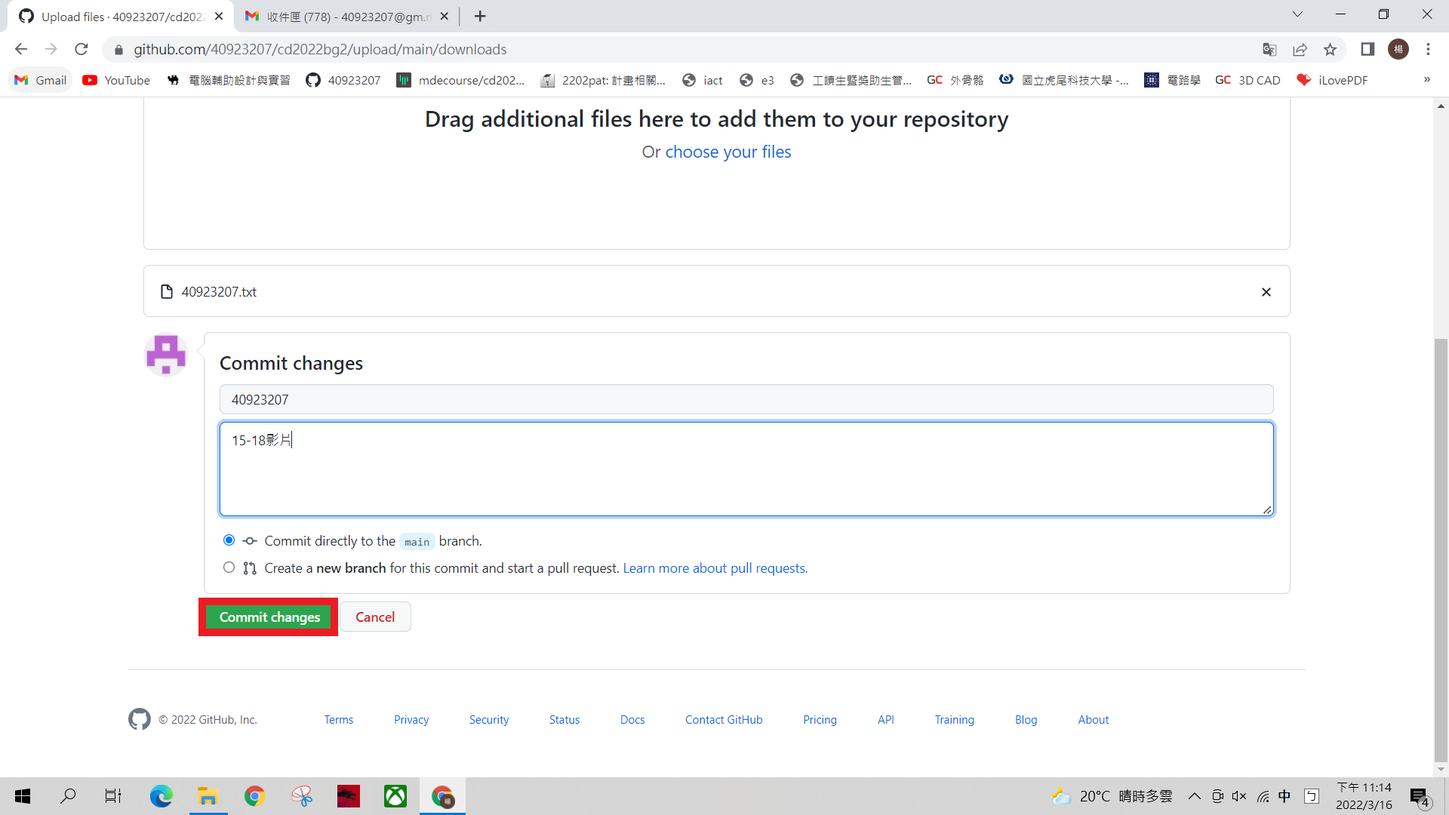
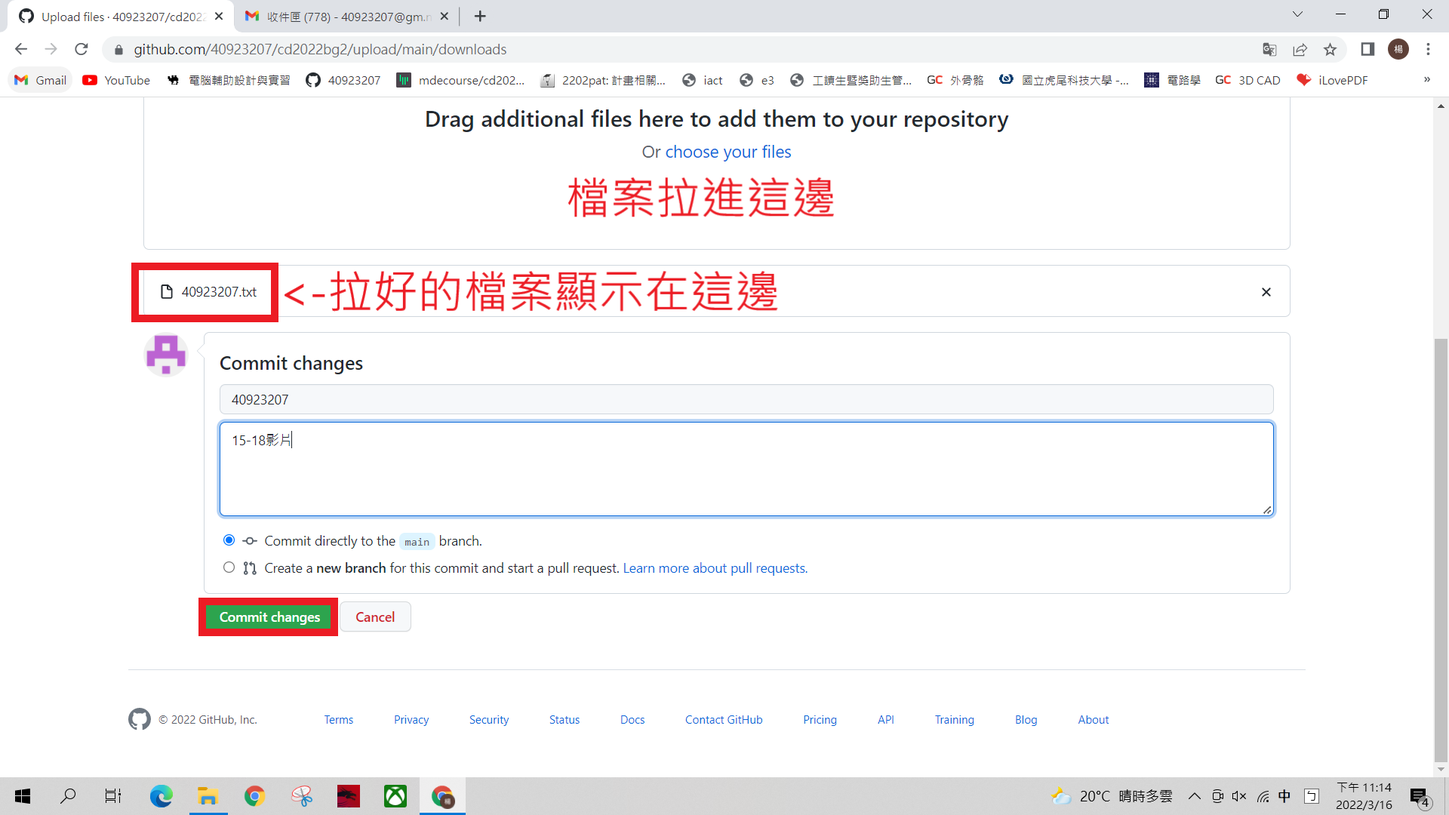
w4資料

Changed region(s): [[0.0938, 0.3361, 0.5312, 0.3972], [0.375, 0.2139, 0.5938, 0.275], [0.0938, 0.3056, 0.1875, 0.3361]]

diff --git a/content/tipuesearch_content.js b/content/tipuesearch_content.js
@@ -1,1 +1,1 @@
-var tipuesearch = {"pages": [{'title': 'About', 'text': '40923207 \n 網站倉儲: https://github.com/40923207/cd2022 \n 網站連結: https://40923207.github.io/cd2022/content/index.html \n', 'tags': '', 'url': 'About.html'}, {'title': 'hwpages', 'text': '\n \n \n cd2022_2b \n github account \n \n \n github pages \n github warehousing \n \n github warehousing \n \n \n bg1 \n \n \n \n \n \n \n \n \n \n \n \n \n \n \n 40923201 \n \n 40923201 \n \n \n \n 40923201 \n \n 40923201 \n \n \n 40923201 \n \n \n \n 40923205 \n \n 40923205 \n \n \n \n 40923205 \n \n 40923205 \n \n \n 40923205 \n \n \n \n 40923208 \n \n nfu40923208 \n \n \n 40923208 \n \n 40923208 \n \n \n 40923208 \n \n \n \n 40923210 \n \n 40923210 \n \n \n \n 40923210 \n \n 40923210 \n \n \n 40923210 \n \n \n \n 40923217 \n \n 40923217 \n \n \n \n 40923217 \n \n 40923217 \n \n \n 40923217 \n \n \n \n 40923230 \n \n 40923230 \n \n \n \n 40923230 \n \n 40923230 \n \n \n 40923230 \n \n \n \n 40923231 \n \n 40923231 \n \n \n \n 40923231 \n \n 40923231 \n \n \n 40923231 \n \n \n \n 40923235 \n \n 40923235 \n \n \n \n 40923235 \n \n 40923235 \n \n \n 40923235 \n \n \n \n \n \n \n \n \n \n \n \n \n \n \n \n \n \n \n bg2 \n \n \n \n \n \n \n \n \n \n \n \n \n \n \n 40823215 \n \n 40823215 \n \n \n \n 40823215 \n \n 40823215 \n \n \n 40823215 \n \n \n \n 40923203 \n \n youshin40923203 \n \n \n 40923203 \n \n 40923203 \n \n \n 40923203 \n \n \n \n 40923204 \n \n 40923204 \n \n \n \n 40923204 \n \n 40923204 \n \n \n 40923204 \n \n \n \n 40923207 \n \n 40923207 \n \n \n \n 40923207 \n \n 40923207 \n \n \n 40923207 \n \n \n \n 40923209 \n \n nfu40923209 \n \n \n 40923209 \n \n 40923209 \n \n \n 40923209 \n \n \n \n 40923213 \n \n 40923213 \n \n \n \n 40923213 \n \n 40923213 \n \n \n 40923213 \n \n \n \n 40923220 \n \n 40923220 \n \n \n \n 40923220 \n \n 40923220 \n \n \n 40923220 \n \n \n \n 40923240 \n \n 40923240 \n \n \n \n 40923240 \n \n 40923240 \n \n \n 40923240 \n \n \n \n \n \n \n \n \n \n \n \n \n \n \n \n \n \n \n bg3 \n \n \n \n \n \n \n \n \n \n \n \n \n \n \n 40923206 \n \n 40923206-1 \n \n \n 40923206 \n \n 40923206 \n \n \n 40923206 \n \n \n \n 40923224 \n \n s40923224 \n \n \n 40923224 \n \n 40923224 \n \n \n 40923224 \n \n \n \n 40923226 \n \n 40923226 \n \n \n \n 40923226 \n \n 40923226 \n \n \n 40923226 \n \n \n \n 40923242 \n \n 40923242 \n \n \n \n 40923242 \n \n 40923242 \n \n \n 40923242 \n \n \n \n 40923245 \n \n 40923245-1 \n \n \n 40923245 \n \n 40923245 \n \n \n 40923245 \n \n \n \n 40923247 \n \n 40923247 \n \n \n \n 40923247 \n \n 40923247 \n \n \n 40923247 \n \n \n \n 40923249 \n \n 40923249-1 \n \n \n 40923249 \n \n 40923249 \n \n \n 40923249 \n \n \n \n 40923252 \n \n 40923252 \n \n \n \n 40923252 \n \n 40923252 \n \n \n 40923252 \n \n \n \n \n \n \n \n \n \n \n \n \n \n \n \n \n \n \n bg4 \n \n \n \n \n \n \n \n \n \n \n \n \n \n \n 40923211 \n \n a40923211 \n \n \n 40923211 \n \n 40923211 \n \n \n 40923211 \n \n \n \n 40923218 \n \n 40923218 \n \n \n \n 40923218 \n \n 40923218 \n \n \n 40923218 \n \n \n \n 40923221 \n \n 40923221 \n \n \n \n 40923221 \n \n 40923221 \n \n \n 40923221 \n \n \n \n 40923223 \n \n 40923223 \n \n \n \n 40923223 \n \n 40923223 \n \n \n 40923223 \n \n \n \n 40923227 \n \n 40923227 \n \n \n \n 40923227 \n \n 40923227 \n \n \n 40923227 \n \n \n \n 40923243 \n \n 40923243 \n \n \n \n 40923243 \n \n 40923243 \n \n \n 40923243 \n \n \n \n \n \n \n \n \n \n \n \n \n \n \n \n \n \n \n bg5 \n \n \n \n \n \n \n \n \n \n \n \n \n \n \n 40923212 \n \n 40923212 \n \n \n \n 40923212 \n \n 40923212 \n \n \n 40923212 \n \n \n \n 40923229 \n \n 40923229 \n \n \n \n 40923229 \n \n 40923229 \n \n \n 40923229 \n \n \n \n 40923233 \n \n 40923233 \n \n \n \n 40923233 \n \n 40923233 \n \n \n 40923233 \n \n \n \n 40923234 \n \n 40923234 \n \n \n \n 40923234 \n \n 40923234 \n \n \n 40923234 \n \n \n \n 40923237 \n \n 40923237 \n \n \n \n 40923237 \n \n 40923237 \n \n \n 40923237 \n \n \n \n 40923251 \n \n 40923251 \n \n \n \n 40923251 \n \n 40923251 \n \n \n 40923251 \n \n \n \n 40923253 \n \n 40923253 \n \n \n \n 40923253 \n \n 40923253 \n \n \n 40923253 \n \n \n \n 40971220 \n \n 40971220 \n \n \n \n 40971220 \n \n 40971220 \n \n \n 40971220 \n \n \n \n \n \n \n \n \n \n \n \n \n \n \n \n \n \n \n bg6 \n \n \n \n \n \n \n \n \n \n \n \n \n \n \n 40723217 \n \n 40723217 \n \n \n \n 40723217 \n \n 40723217 \n \n \n 40723217 \n \n \n \n 40923219 \n \n nfu40923219 \n \n \n 40923219 \n \n 40923219 \n \n \n 40923219 \n \n \n \n 40923225 \n \n 40923225 \n \n \n \n 40923225 \n \n 40923225 \n \n \n 40923225 \n \n \n \n 40923232 \n \n 40923232 \n \n \n \n 40923232 \n \n 40923232 \n \n \n 40923232 \n \n \n \n 40923236 \n \n 40923236 \n \n \n \n 40923236 \n \n 40923236 \n \n \n 40923236 \n \n \n \n 40923241 \n \n 40923241 \n \n \n \n 40923241 \n \n 40923241 \n \n \n 40923241 \n \n \n \n 40923246 \n \n 40923246 \n \n \n \n 40923246 \n \n 40923246 \n \n \n 40923246 \n \n \n \n 40923250 \n \n 40923250 \n \n \n \n 40923250 \n \n 40923250 \n \n \n 40923250 \n \n \n \n \n \n \n \n \n \n \n \n \n \n \n \n \n \n \n bg7 \n \n \n \n \n \n \n \n \n \n \n \n \n \n \n 40723134 \n \n 40723134 \n \n \n \n 40723134 \n \n 40723134 \n \n \n 40723134 \n \n \n \n 40723136 \n \n s40723136 \n \n \n 40723136 \n \n 40723136 \n \n \n 40723136 \n \n \n \n 40732331 \n \n 40732331 \n \n \n \n 40732331 \n \n 40732331 \n \n \n 40732331 \n \n \n \n 40923214 \n \n 40923214 \n \n \n \n 40923214 \n \n 40923214 \n \n \n 40923214 \n \n \n \n 40923216 \n \n 40923216 \n \n \n \n 40923216 \n \n 40923216 \n \n \n 40923216 \n \n \n \n 40923228 \n \n 40923228 \n \n \n \n 40923228 \n \n 40923228 \n \n \n 40923228 \n \n \n \n 40923238 \n \n 40923238 \n \n \n \n 40923238 \n \n 40923238 \n \n \n 40923238 \n \n \n \n 40923248 \n \n 40923248 \n \n \n \n 40923248 \n \n 40923248 \n \n \n 40923248 \n \n \n \n \n \n', 'tags': '', 'url': 'hwpages.html'}, {'title': 'W3', 'text': '負責影片: \n 15. TECH 4472 HW09 NX Assemblies (Bottom-UP) \n 使用影片說明附上的零件進行組裝 \n youtube \n \n wink \n \n \n \n \n   \n \n \n \n \n \n \n \n \n 16. 4472 NX Subassemblies \n 使用影片說明附上的零件進行組裝 \n youtube \n \n wink \n \n \n \n \n   \n \n \n \n \n \n \n \n \n 17. 4472 HW10 NX Curves,Tubes,Wave Geometry Linker \n youtube \n \n wink \n \n \n \n \n   \n \n \n \n \n \n \n \n \n 18. 4472 HW11 NX Assemblies Top Down \n youtube \n \n wink \n \n \n \n \n   \n \n \n \n \n \n \n \n \n', 'tags': '', 'url': 'W3.html'}, {'title': '每週進度', 'text': '', 'tags': '', 'url': '每週進度.html'}, {'title': 'W1 0224', 'text': 'IPv 6設定(手動): \n 設定->網路和網際網路->Proxy-> \n \n 乙太網路 ->變更介面卡選項->又鍵點選"乙太網路"->內容->取消勾選網際通訊協定第四版(TCP/IPv4) \n \n', 'tags': '', 'url': 'W1 0224.html'}, {'title': 'W2 0303', 'text': '', 'tags': '', 'url': 'W2 0303.html'}, {'title': '建立倉儲', 'text': '\n 1 先到老師網頁的cmstemplate可攜系統下載 portablekmol_base.7z 、  Python395.7z 、 portablegit_2.31.1.7z 後解壓縮，將解壓縮好的 Python395.7z、portablegit_2.31.1.7z放入portablekmol_base.7z解 壓縮好的data資料夾裡面 \n 2 先登入Github到老師網頁的About點選 網址 進入後按Use this template，在Repository name輸入自己需要的倉儲名稱後按Create repository from template \n \n 3 進自己的倉儲後，按上方的Settings->Pages->None改main->Save->生 成網頁網址 \n 4 開下載好的ipv6，將 ipv4拉進白窗，將 Python38都改成 Python395、 portablegit 改成 portablegit2.31.1，最下面將改成這樣 \n \n 5 開小黑窗\xa0 \n \xa0 cd tmp\xa0 git version=>出現git version2.31.2...\xa0 \n \xa0 dir(看檔案表)\xa0 \n \xa0 git clone --recurse-submodules https://...新建的倉儲網址.git， 跑完之後會發現data->tmp->多 了倉儲名稱的資料夾 \n 6 小黑窗輸稱\xa0 \n \xa0 cd 倉儲名稱\xa0 \n \xa0 pip install pyopenssl\xa0 \n \xa0 cms=>複製網址進入編輯的地方，預設登入密碼為“admin\xa0” \n 7 回到倉儲(Github)右上角下拉式選單按 Settings->Developer settings->Personal access tokens->Generate new token-> Note輸入 認得出來的名字-> Expiration可以選No expiration(無期限)->rope一 定要勾-> Generate token->出現一大串英文是新建的token要先複製另 外存好 \n 8 Data->tmp->倉儲名稱->(檢視->選項->顯示隱藏的檔案).git->confit拉 進白窗->［remote］下面的url=https://github.com...在//和 github 中間貼上剛剛複製的token和@ \n \n 9 tmp->cd2022 ->.git-> confit檔案拉進白窗加入\xa0 \n \xa0 name=帳號(github帳號)\xa0 \n \xa0 email=當初登入的信箱 \n', 'tags': '', 'url': '建立倉儲.html'}, {'title': '分組連結製作', 'text': '先將老師 統計好的GitHub帳號 整理至excel，再使用hyperlink函數快速完成全班的GitHub pages和GitHub warehousing然後完成網站 \n 操作步驟： \n 1.先在要產生網址的地方輸入函數=HYPERLINK("https://"&B2&".github.io/cd2022/content/index.html") \n 2.其中& B 2&是指那個位置要輸入 B 2那格的內容，且 B 2前後要加“&” \n 3.輸入完“https://"&B2&".github.io/cd2022/content/index.html”後，如果想讓顯 示的網址名稱不是整段網址，可在最後面/和”中間打上 ,想要的名稱 （可輸入表格位置表示以那個位置名稱顯示出超連結） \n 4.再將有進行函式的格子向下拉皆套入公式 \n \n 5.再將excel內容依組別整理後複製貼上網頁 \n', 'tags': '', 'url': '分組連結製作.html'}, {'title': 'W3 0310', 'text': '利用NX1980繪製38個比較接近NX1980版本功能的教學影片( 連結 )，每一學員分配5個影片，並在w3標題頁面中， 根據影片中的教學內容，以Wink影片互相對照的方式採NX1980執行操作進行整理，完成後將所負責的Wink教學影片嵌入個人與大分組的w3標題頁面中 \n \n', 'tags': '', 'url': 'W3 0310.html'}, {'title': 'wink', 'text': 'wink加入網頁步驟: \n 先到 老師的網站 複製原始碼 \n \n \n 複製第143-164行 \n 複製到Source code並更改以下內容: \n <script>// <![CDATA[ var winkVideoData = {  dataVersion: 1,  frameRate: 20,  buttonFrameLength: 10,  buttonFrameOffset: 5,  frameStops: {  }, }; // ]]></script> </code></pre> <div class="winkVideoContainerClass"><video width="1920" height="1080" class="winkVideoClass" data-dirname="./../cmsimde/static" data-varname="winkVideoData"> <source src="./../downloads/ test .mp4" type="video/mp4" /></video> <div class="winkVideoOverlayClass"></div> <div class="winkVideoControlBarClass"><button class="winkVideoControlBarPlayButtonClass"></button> <button class="winkVideoControlBarPauseButtonClass"></button> <div class="winkVideoControlBarProgressLeftClass"></div> <div class="winkVideoControlBarProgressEmptyMiddleClass"></div> <div class="winkVideoControlBarProgressRightClass"></div> <div class="winkVideoControlBarProgressFilledMiddleClass"></div> <div class="winkVideoControlBarProgressThumbClass"></div> </div> <div class="winkVideoPlayOverlayClass"></div> </div> \n 1.刪除「 ./../cmsimde 」 \n \xa0 ex: dirname="/static" \n 2.改成自己wink影片的尺寸「 height="712" width="1138" 」 \n \xa0 ex: height="800" width="1200" \n 3.改成自己影片的路徑及名稱「 wink/meArm_robot_wink 」 \n \xa0 ex: <source src="./../downloads/ test .mp4" \xa0 \n \n 改好後會像圖片這樣，紅色框的內容可避免wink影片重疊，分別加在wink影片原始碼前後 \n \n  Brython 程式執行的結果, 都以 brython_div 作為切入位置  \n \n \n \n  導入 gearUtils-0.9.js Cango 齒輪繪圖程式庫  \n \n \n \n \n \n \n', 'tags': '', 'url': 'wink.html'}, {'title': 'W4 0317', 'text': '', 'tags': '', 'url': 'W4 0317.html'}, {'title': 'NX1980網路授權更改', 'text': '原先的設定 \n \n 可用分號隔開即可不用在切換網路時更改程式碼 \n \n IPV4 \n set SPLM_LICENSE_SERVER=28000@140.130.17.37 \n 近端主機授權 \n set SPLM_LICENSE_SERVER=28000@［2001:288:6004:17::37］ \n IPV6 \n set SPLM_LICENSE_SERVER=28000@192.168.56.3', 'tags': '', 'url': 'NX1980網路授權更改.html'}, {'title': 'fork', 'text': '在大組倉儲按fork即可 \n', 'tags': '', 'url': 'fork.html'}, {'title': '創建downloads', 'text': '1.在大組倉儲按Create new file \n \n 2.輸入名稱 \n \n 3. 按Pripose new file \n \n 4.按Creat pull request \n \n 5.按Create pull request \n', 'tags': '', 'url': '創建downloads.html'}, {'title': '上傳txt檔', 'text': '\n', 'tags': '', 'url': '上傳txt檔.html'}, {'title': 'W5 0324', 'text': '\n', 'tags': '', 'url': 'W5 0324.html'}, {'title': 'W6 0331', 'text': '\n', 'tags': '', 'url': 'W6 0331.html'}, {'title': 'W7 0407', 'text': '\xa0 \n', 'tags': '', 'url': 'W7 0407.html'}, {'title': 'W8 0414', 'text': '\n', 'tags': '', 'url': 'W8 0414.html'}, {'title': 'W9 0421', 'text': '\n', 'tags': '', 'url': 'W9 0421.html'}, {'title': 'W10 0428', 'text': '\n', 'tags': '', 'url': 'W10 0428.html'}, {'title': 'W11 0505', 'text': '\n', 'tags': '', 'url': 'W11 0505.html'}, {'title': 'W12 0512', 'text': '\n', 'tags': '', 'url': 'W12 0512.html'}, {'title': 'W13 0519', 'text': '\n', 'tags': '', 'url': 'W13 0519.html'}, {'title': 'W14 0526', 'text': '\n', 'tags': '', 'url': 'W14 0526.html'}, {'title': 'W15 0602', 'text': '\n', 'tags': '', 'url': 'W15 0602.html'}, {'title': 'W16 0609', 'text': '\n', 'tags': '', 'url': 'W16 0609.html'}, {'title': 'W17 0616', 'text': '\n', 'tags': '', 'url': 'W17 0616.html'}, {'title': 'W18 0623', 'text': '', 'tags': '', 'url': 'W18 0623.html'}]};
+var tipuesearch = {"pages": [{'title': 'About', 'text': '40923207 \n 網站倉儲: https://github.com/40923207/cd2022 \n 網站連結: https://40923207.github.io/cd2022/content/index.html \n', 'tags': '', 'url': 'About.html'}, {'title': 'hwpages', 'text': '\n \n \n cd2022_2b \n github account \n \n \n github pages \n github warehousing \n \n github warehousing \n \n \n bg1 \n \n \n \n \n \n \n \n \n \n \n \n \n \n \n 40923201 \n \n 40923201 \n \n \n \n 40923201 \n \n 40923201 \n \n \n 40923201 \n \n \n \n 40923205 \n \n 40923205 \n \n \n \n 40923205 \n \n 40923205 \n \n \n 40923205 \n \n \n \n 40923208 \n \n nfu40923208 \n \n \n 40923208 \n \n 40923208 \n \n \n 40923208 \n \n \n \n 40923210 \n \n 40923210 \n \n \n \n 40923210 \n \n 40923210 \n \n \n 40923210 \n \n \n \n 40923217 \n \n 40923217 \n \n \n \n 40923217 \n \n 40923217 \n \n \n 40923217 \n \n \n \n 40923230 \n \n 40923230 \n \n \n \n 40923230 \n \n 40923230 \n \n \n 40923230 \n \n \n \n 40923231 \n \n 40923231 \n \n \n \n 40923231 \n \n 40923231 \n \n \n 40923231 \n \n \n \n 40923235 \n \n 40923235 \n \n \n \n 40923235 \n \n 40923235 \n \n \n 40923235 \n \n \n \n \n \n \n \n \n \n \n \n \n \n \n \n \n \n \n bg2 \n \n \n \n \n \n \n \n \n \n \n \n \n \n \n 40823215 \n \n 40823215 \n \n \n \n 40823215 \n \n 40823215 \n \n \n 40823215 \n \n \n \n 40923203 \n \n youshin40923203 \n \n \n 40923203 \n \n 40923203 \n \n \n 40923203 \n \n \n \n 40923204 \n \n 40923204 \n \n \n \n 40923204 \n \n 40923204 \n \n \n 40923204 \n \n \n \n 40923207 \n \n 40923207 \n \n \n \n 40923207 \n \n 40923207 \n \n \n 40923207 \n \n \n \n 40923209 \n \n nfu40923209 \n \n \n 40923209 \n \n 40923209 \n \n \n 40923209 \n \n \n \n 40923213 \n \n 40923213 \n \n \n \n 40923213 \n \n 40923213 \n \n \n 40923213 \n \n \n \n 40923220 \n \n 40923220 \n \n \n \n 40923220 \n \n 40923220 \n \n \n 40923220 \n \n \n \n 40923240 \n \n 40923240 \n \n \n \n 40923240 \n \n 40923240 \n \n \n 40923240 \n \n \n \n \n \n \n \n \n \n \n \n \n \n \n \n \n \n \n bg3 \n \n \n \n \n \n \n \n \n \n \n \n \n \n \n 40923206 \n \n 40923206-1 \n \n \n 40923206 \n \n 40923206 \n \n \n 40923206 \n \n \n \n 40923224 \n \n s40923224 \n \n \n 40923224 \n \n 40923224 \n \n \n 40923224 \n \n \n \n 40923226 \n \n 40923226 \n \n \n \n 40923226 \n \n 40923226 \n \n \n 40923226 \n \n \n \n 40923242 \n \n 40923242 \n \n \n \n 40923242 \n \n 40923242 \n \n \n 40923242 \n \n \n \n 40923245 \n \n 40923245-1 \n \n \n 40923245 \n \n 40923245 \n \n \n 40923245 \n \n \n \n 40923247 \n \n 40923247 \n \n \n \n 40923247 \n \n 40923247 \n \n \n 40923247 \n \n \n \n 40923249 \n \n 40923249-1 \n \n \n 40923249 \n \n 40923249 \n \n \n 40923249 \n \n \n \n 40923252 \n \n 40923252 \n \n \n \n 40923252 \n \n 40923252 \n \n \n 40923252 \n \n \n \n \n \n \n \n \n \n \n \n \n \n \n \n \n \n \n bg4 \n \n \n \n \n \n \n \n \n \n \n \n \n \n \n 40923211 \n \n a40923211 \n \n \n 40923211 \n \n 40923211 \n \n \n 40923211 \n \n \n \n 40923218 \n \n 40923218 \n \n \n \n 40923218 \n \n 40923218 \n \n \n 40923218 \n \n \n \n 40923221 \n \n 40923221 \n \n \n \n 40923221 \n \n 40923221 \n \n \n 40923221 \n \n \n \n 40923223 \n \n 40923223 \n \n \n \n 40923223 \n \n 40923223 \n \n \n 40923223 \n \n \n \n 40923227 \n \n 40923227 \n \n \n \n 40923227 \n \n 40923227 \n \n \n 40923227 \n \n \n \n 40923243 \n \n 40923243 \n \n \n \n 40923243 \n \n 40923243 \n \n \n 40923243 \n \n \n \n \n \n \n \n \n \n \n \n \n \n \n \n \n \n \n bg5 \n \n \n \n \n \n \n \n \n \n \n \n \n \n \n 40923212 \n \n 40923212 \n \n \n \n 40923212 \n \n 40923212 \n \n \n 40923212 \n \n \n \n 40923229 \n \n 40923229 \n \n \n \n 40923229 \n \n 40923229 \n \n \n 40923229 \n \n \n \n 40923233 \n \n 40923233 \n \n \n \n 40923233 \n \n 40923233 \n \n \n 40923233 \n \n \n \n 40923234 \n \n 40923234 \n \n \n \n 40923234 \n \n 40923234 \n \n \n 40923234 \n \n \n \n 40923237 \n \n 40923237 \n \n \n \n 40923237 \n \n 40923237 \n \n \n 40923237 \n \n \n \n 40923251 \n \n 40923251 \n \n \n \n 40923251 \n \n 40923251 \n \n \n 40923251 \n \n \n \n 40923253 \n \n 40923253 \n \n \n \n 40923253 \n \n 40923253 \n \n \n 40923253 \n \n \n \n 40971220 \n \n 40971220 \n \n \n \n 40971220 \n \n 40971220 \n \n \n 40971220 \n \n \n \n \n \n \n \n \n \n \n \n \n \n \n \n \n \n \n bg6 \n \n \n \n \n \n \n \n \n \n \n \n \n \n \n 40723217 \n \n 40723217 \n \n \n \n 40723217 \n \n 40723217 \n \n \n 40723217 \n \n \n \n 40923219 \n \n nfu40923219 \n \n \n 40923219 \n \n 40923219 \n \n \n 40923219 \n \n \n \n 40923225 \n \n 40923225 \n \n \n \n 40923225 \n \n 40923225 \n \n \n 40923225 \n \n \n \n 40923232 \n \n 40923232 \n \n \n \n 40923232 \n \n 40923232 \n \n \n 40923232 \n \n \n \n 40923236 \n \n 40923236 \n \n \n \n 40923236 \n \n 40923236 \n \n \n 40923236 \n \n \n \n 40923241 \n \n 40923241 \n \n \n \n 40923241 \n \n 40923241 \n \n \n 40923241 \n \n \n \n 40923246 \n \n 40923246 \n \n \n \n 40923246 \n \n 40923246 \n \n \n 40923246 \n \n \n \n 40923250 \n \n 40923250 \n \n \n \n 40923250 \n \n 40923250 \n \n \n 40923250 \n \n \n \n \n \n \n \n \n \n \n \n \n \n \n \n \n \n \n bg7 \n \n \n \n \n \n \n \n \n \n \n \n \n \n \n 40723134 \n \n 40723134 \n \n \n \n 40723134 \n \n 40723134 \n \n \n 40723134 \n \n \n \n 40723136 \n \n s40723136 \n \n \n 40723136 \n \n 40723136 \n \n \n 40723136 \n \n \n \n 40732331 \n \n 40732331 \n \n \n \n 40732331 \n \n 40732331 \n \n \n 40732331 \n \n \n \n 40923214 \n \n 40923214 \n \n \n \n 40923214 \n \n 40923214 \n \n \n 40923214 \n \n \n \n 40923216 \n \n 40923216 \n \n \n \n 40923216 \n \n 40923216 \n \n \n 40923216 \n \n \n \n 40923228 \n \n 40923228 \n \n \n \n 40923228 \n \n 40923228 \n \n \n 40923228 \n \n \n \n 40923238 \n \n 40923238 \n \n \n \n 40923238 \n \n 40923238 \n \n \n 40923238 \n \n \n \n 40923248 \n \n 40923248 \n \n \n \n 40923248 \n \n 40923248 \n \n \n 40923248 \n \n \n \n \n \n', 'tags': '', 'url': 'hwpages.html'}, {'title': 'W3', 'text': '負責影片: \n 15. TECH 4472 HW09 NX Assemblies (Bottom-UP) \n 使用影片說明附上的零件進行組裝 \n youtube \n \n wink \n \n \n \n \n   \n \n \n \n \n \n \n \n \n 16. 4472 NX Subassemblies \n 使用影片說明附上的零件進行組裝 \n youtube \n \n wink \n \n \n \n \n   \n \n \n \n \n \n \n \n \n 17. 4472 HW10 NX Curves,Tubes,Wave Geometry Linker \n youtube \n \n wink \n \n \n \n \n   \n \n \n \n \n \n \n \n \n 18. 4472 HW11 NX Assemblies Top Down \n youtube \n \n wink \n \n \n \n \n   \n \n \n \n \n \n \n \n \n', 'tags': '', 'url': 'W3.html'}, {'title': '每週進度', 'text': '', 'tags': '', 'url': '每週進度.html'}, {'title': 'W1 0224', 'text': 'IPv 6設定(手動): \n 設定->網路和網際網路->Proxy-> \n \n 乙太網路 ->變更介面卡選項->又鍵點選"乙太網路"->內容->取消勾選網際通訊協定第四版(TCP/IPv4) \n \n', 'tags': '', 'url': 'W1 0224.html'}, {'title': 'W2 0303', 'text': '', 'tags': '', 'url': 'W2 0303.html'}, {'title': '建立倉儲', 'text': '\n 1 先到老師網頁的cmstemplate可攜系統下載 portablekmol_base.7z 、  Python395.7z 、 portablegit_2.31.1.7z 後解壓縮，將解壓縮好的 Python395.7z、portablegit_2.31.1.7z放入portablekmol_base.7z解 壓縮好的data資料夾裡面 \n 2 先登入Github到老師網頁的About點選 網址 進入後按Use this template，在Repository name輸入自己需要的倉儲名稱後按Create repository from template \n \n 3 進自己的倉儲後，按上方的Settings->Pages->None改main->Save->生 成網頁網址 \n 4 開下載好的ipv6，將 ipv4拉進白窗，將 Python38都改成 Python395、 portablegit 改成 portablegit2.31.1，最下面將改成這樣 \n \n 5 開小黑窗\xa0 \n \xa0 cd tmp\xa0 git version=>出現git version2.31.2...\xa0 \n \xa0 dir(看檔案表)\xa0 \n \xa0 git clone --recurse-submodules https://...新建的倉儲網址.git， 跑完之後會發現data->tmp->多 了倉儲名稱的資料夾 \n 6 小黑窗輸稱\xa0 \n \xa0 cd 倉儲名稱\xa0 \n \xa0 pip install pyopenssl\xa0 \n \xa0 cms=>複製網址進入編輯的地方，預設登入密碼為“admin\xa0” \n 7 回到倉儲(Github)右上角下拉式選單按 Settings->Developer settings->Personal access tokens->Generate new token-> Note輸入 認得出來的名字-> Expiration可以選No expiration(無期限)->rope一 定要勾-> Generate token->出現一大串英文是新建的token要先複製另 外存好 \n 8 Data->tmp->倉儲名稱->(檢視->選項->顯示隱藏的檔案).git->confit拉 進白窗->［remote］下面的url=https://github.com...在//和 github 中間貼上剛剛複製的token和@ \n \n 9 tmp->cd2022 ->.git-> confit檔案拉進白窗加入\xa0 \n \xa0 name=帳號(github帳號)\xa0 \n \xa0 email=當初登入的信箱 \n', 'tags': '', 'url': '建立倉儲.html'}, {'title': '分組連結製作', 'text': '先將老師 統計好的GitHub帳號 整理至excel，再使用hyperlink函數快速完成全班的GitHub pages和GitHub warehousing然後完成網站 \n 操作步驟： \n 1.先在要產生網址的地方輸入函數=HYPERLINK("https://"&B2&".github.io/cd2022/content/index.html") \n 2.其中& B 2&是指那個位置要輸入 B 2那格的內容，且 B 2前後要加“&” \n 3.輸入完“https://"&B2&".github.io/cd2022/content/index.html”後，如果想讓顯 示的網址名稱不是整段網址，可在最後面/和”中間打上 ,想要的名稱 （可輸入表格位置表示以那個位置名稱顯示出超連結） \n 4.再將有進行函式的格子向下拉皆套入公式 \n \n 5.再將excel內容依組別整理後複製貼上網頁 \n', 'tags': '', 'url': '分組連結製作.html'}, {'title': 'W3 0310', 'text': '利用NX1980繪製38個比較接近NX1980版本功能的教學影片( 連結 )，每一學員分配5個影片，並在w3標題頁面中， 根據影片中的教學內容，以Wink影片互相對照的方式採NX1980執行操作進行整理，完成後將所負責的Wink教學影片嵌入個人與大分組的w3標題頁面中 \n \n', 'tags': '', 'url': 'W3 0310.html'}, {'title': 'wink', 'text': 'wink加入網頁步驟: \n 先到 老師的網站 複製原始碼 \n \n \n 複製第143-164行 \n 複製到Source code並更改以下內容: \n <script>// <![CDATA[ var winkVideoData = {  dataVersion: 1,  frameRate: 20,  buttonFrameLength: 10,  buttonFrameOffset: 5,  frameStops: {  }, }; // ]]></script> </code></pre> <div class="winkVideoContainerClass"><video width="1920" height="1080" class="winkVideoClass" data-dirname="./../cmsimde/static" data-varname="winkVideoData"> <source src="./../downloads/ test .mp4" type="video/mp4" /></video> <div class="winkVideoOverlayClass"></div> <div class="winkVideoControlBarClass"><button class="winkVideoControlBarPlayButtonClass"></button> <button class="winkVideoControlBarPauseButtonClass"></button> <div class="winkVideoControlBarProgressLeftClass"></div> <div class="winkVideoControlBarProgressEmptyMiddleClass"></div> <div class="winkVideoControlBarProgressRightClass"></div> <div class="winkVideoControlBarProgressFilledMiddleClass"></div> <div class="winkVideoControlBarProgressThumbClass"></div> </div> <div class="winkVideoPlayOverlayClass"></div> </div> \n 1.刪除「 ./../cmsimde 」 \n \xa0 ex: dirname="/static" \n 2.改成自己wink影片的尺寸「 height="712" width="1138" 」 \n \xa0 ex: height="800" width="1200" \n 3.改成自己影片的路徑及名稱「 wink/meArm_robot_wink 」 \n \xa0 ex: <source src="./../downloads/ test .mp4" \xa0 \n \n 改好後會像圖片這樣，紅色框的內容可避免wink影片重疊，分別加在wink影片原始碼前後 \n \n  Brython 程式執行的結果, 都以 brython_div 作為切入位置  \n \n \n \n  導入 gearUtils-0.9.js Cango 齒輪繪圖程式庫  \n \n \n \n \n \n \n', 'tags': '', 'url': 'wink.html'}, {'title': 'W4 0317', 'text': '', 'tags': '', 'url': 'W4 0317.html'}, {'title': 'NX1980網路授權更改', 'text': '原先的設定 \n \n 可用分號隔開即可不用在切換網路時更改程式碼 \n \n IPV4 \n set SPLM_LICENSE_SERVER=28000@140.130.17.37 \n 近端主機授權 \n set SPLM_LICENSE_SERVER=28000@［2001:288:6004:17::37］ \n IPV6 \n set SPLM_LICENSE_SERVER=28000@192.168.56.3', 'tags': '', 'url': 'NX1980網路授權更改.html'}, {'title': 'fork', 'text': '在大組倉儲按fork即可 \n', 'tags': '', 'url': 'fork.html'}, {'title': '創建downloads', 'text': '1.在大組倉儲按Create new file \n \n 2.輸入名稱 \n \n 3. 按Pripose new file \n \n 4.按Creat pull request \n \n 5.按Create pull request \n', 'tags': '', 'url': '創建downloads.html'}, {'title': '上傳txt檔', 'text': '1.到自己fork的大組倉儲按download \n \n 2. 按Upload files \n \n 3. 將要上傳的.txt 檔 拉進Drag additional files here to add them to your repository後，按Commit changes \n \n 4. 按Pull requests->New pull request \n \n 5.按Creat pull request \n \n 6.按Create pull request \n', 'tags': '', 'url': '上傳txt檔.html'}, {'title': 'W5 0324', 'text': '\n', 'tags': '', 'url': 'W5 0324.html'}, {'title': 'W6 0331', 'text': '\n', 'tags': '', 'url': 'W6 0331.html'}, {'title': 'W7 0407', 'text': '\xa0 \n', 'tags': '', 'url': 'W7 0407.html'}, {'title': 'W8 0414', 'text': '\n', 'tags': '', 'url': 'W8 0414.html'}, {'title': 'W9 0421', 'text': '\n', 'tags': '', 'url': 'W9 0421.html'}, {'title': 'W10 0428', 'text': '\n', 'tags': '', 'url': 'W10 0428.html'}, {'title': 'W11 0505', 'text': '\n', 'tags': '', 'url': 'W11 0505.html'}, {'title': 'W12 0512', 'text': '\n', 'tags': '', 'url': 'W12 0512.html'}, {'title': 'W13 0519', 'text': '\n', 'tags': '', 'url': 'W13 0519.html'}, {'title': 'W14 0526', 'text': '\n', 'tags': '', 'url': 'W14 0526.html'}, {'title': 'W15 0602', 'text': '\n', 'tags': '', 'url': 'W15 0602.html'}, {'title': 'W16 0609', 'text': '\n', 'tags': '', 'url': 'W16 0609.html'}, {'title': 'W17 0616', 'text': '\n', 'tags': '', 'url': 'W17 0616.html'}, {'title': 'W18 0623', 'text': '', 'tags': '', 'url': 'W18 0623.html'}]};

diff --git a/content/上傳txt檔.html b/content/上傳txt檔.html
@@ -140,8 +140,18 @@ img.add_border {
           
         </header>
     <div id="tipue_search_content">創建downloads << <a href='創建downloads.html'>Previous</a> <a href='W5 0324.html'>Next</a> >> W5 0324<br /><h1>上傳txt檔</h1>
-<p><span></span></p>
-<br />創建downloads << <a href='創建downloads.html'>Previous</a> <a href='W5 0324.html'>Next</a> >> W5 0324</div>
+<p><span>1.到自己fork的大組倉儲按download</span></p>
+<p><span><img alt="" height="338" src="./../images/p1.PNG" width="600"/></span></p>
+<p><span>2.</span><span>按Upload files</span></p>
+<p><span><img alt="" height="338" src="./../images/p2.PNG" width="600"/></span></p>
+<p><span>3.</span><span>將要上傳的.txt</span>檔<span>拉進Drag additional files here to add them to your repository後，按Commit changes</span></p>
+<p><span><img alt="" height="338" src="./../images/p3.PNG" width="600"/></span></p>
+<p><span>4.</span><span>按Pull requests-&gt;New pull request</span></p>
+<p><span><img alt="" height="338" src="./../images/p4.PNG" width="600"/></span></p>
+<p><span>5.按Creat pull request</span></p>
+<p><span><img alt="" height="338" src="./../images/p5.PNG" width="600"/></span></p>
+<p><span>6.按Create pull request</span></p>
+<p><span><img alt="" height="338" src="./../images/p6.PNG" width="600"/></span></p><br />創建downloads << <a href='創建downloads.html'>Previous</a> <a href='W5 0324.html'>Next</a> >> W5 0324</div>
         
     <!-- footer -->
       <div class="container">

diff --git a/config/content.htm b/config/content.htm
@@ -1215,8 +1215,18 @@ var winkVideoData = {
 <p><img alt="" height="338" src="/images/d4.PNG" width="600"/></p>
 <p>5.按Create pull request</p>
 <p><img alt="" height="338" src="/images/d5.PNG" width="600"/></p><h3>上傳txt檔</h3>
-<p><span></span></p>
-<h2>W5 0324</h2>
+<p><span>1.到自己fork的大組倉儲按download</span></p>
+<p><span><img alt="" height="338" src="/images/p1.PNG" width="600"/></span></p>
+<p><span>2.</span><span>按Upload files</span></p>
+<p><span><img alt="" height="338" src="/images/p2.PNG" width="600"/></span></p>
+<p><span>3.</span><span>將要上傳的.txt</span>檔<span>拉進Drag additional files here to add them to your repository後，按Commit changes</span></p>
+<p><span><img alt="" height="338" src="/images/p3.PNG" width="600"/></span></p>
+<p><span>4.</span><span>按Pull requests-&gt;New pull request</span></p>
+<p><span><img alt="" height="338" src="/images/p4.PNG" width="600"/></span></p>
+<p><span>5.按Creat pull request</span></p>
+<p><span><img alt="" height="338" src="/images/p5.PNG" width="600"/></span></p>
+<p><span>6.按Create pull request</span></p>
+<p><span><img alt="" height="338" src="/images/p6.PNG" width="600"/></span></p><h2>W5 0324</h2>
 <p><span></span></p>
 <h2>W6 0331</h2>
 <p><span></span></p>

diff --git a/config/content_backup.htm b/config/content_backup.htm
@@ -1205,7 +1205,16 @@ var winkVideoData = {
 <p><span>set SPLM_LICENSE_SERVER=28000@192.168.56.3</span></p><h3>fork</h3>
 <p>在大組倉儲按fork即可</p>
 <p><img caption="false" height="338" src="/images/fork.PNG" width="600"/></p><h3>創建downloads</h3>
-<h3>上傳txt檔</h3>
+<p><span>1.在大組倉儲按Create new file</span></p>
+<p><span><img alt="" height="338" src="/images/d1.PNG" width="600"/></span></p>
+<p><span>2.輸入名稱</span></p>
+<p><span><img alt="" height="338" src="/images/d2.PNG" width="600"/></span></p>
+<p><span>3.</span>按Pripose new file</p>
+<p><img caption="false" height="338" src="/images/d3.PNG" width="600"/></p>
+<p>4.按Creat pull request</p>
+<p><img alt="" height="338" src="/images/d4.PNG" width="600"/></p>
+<p>5.按Create pull request</p>
+<p><img alt="" height="338" src="/images/d5.PNG" width="600"/></p><h3>上傳txt檔</h3>
 <p><span></span></p>
 <h2>W5 0324</h2>
 <p><span></span></p>
